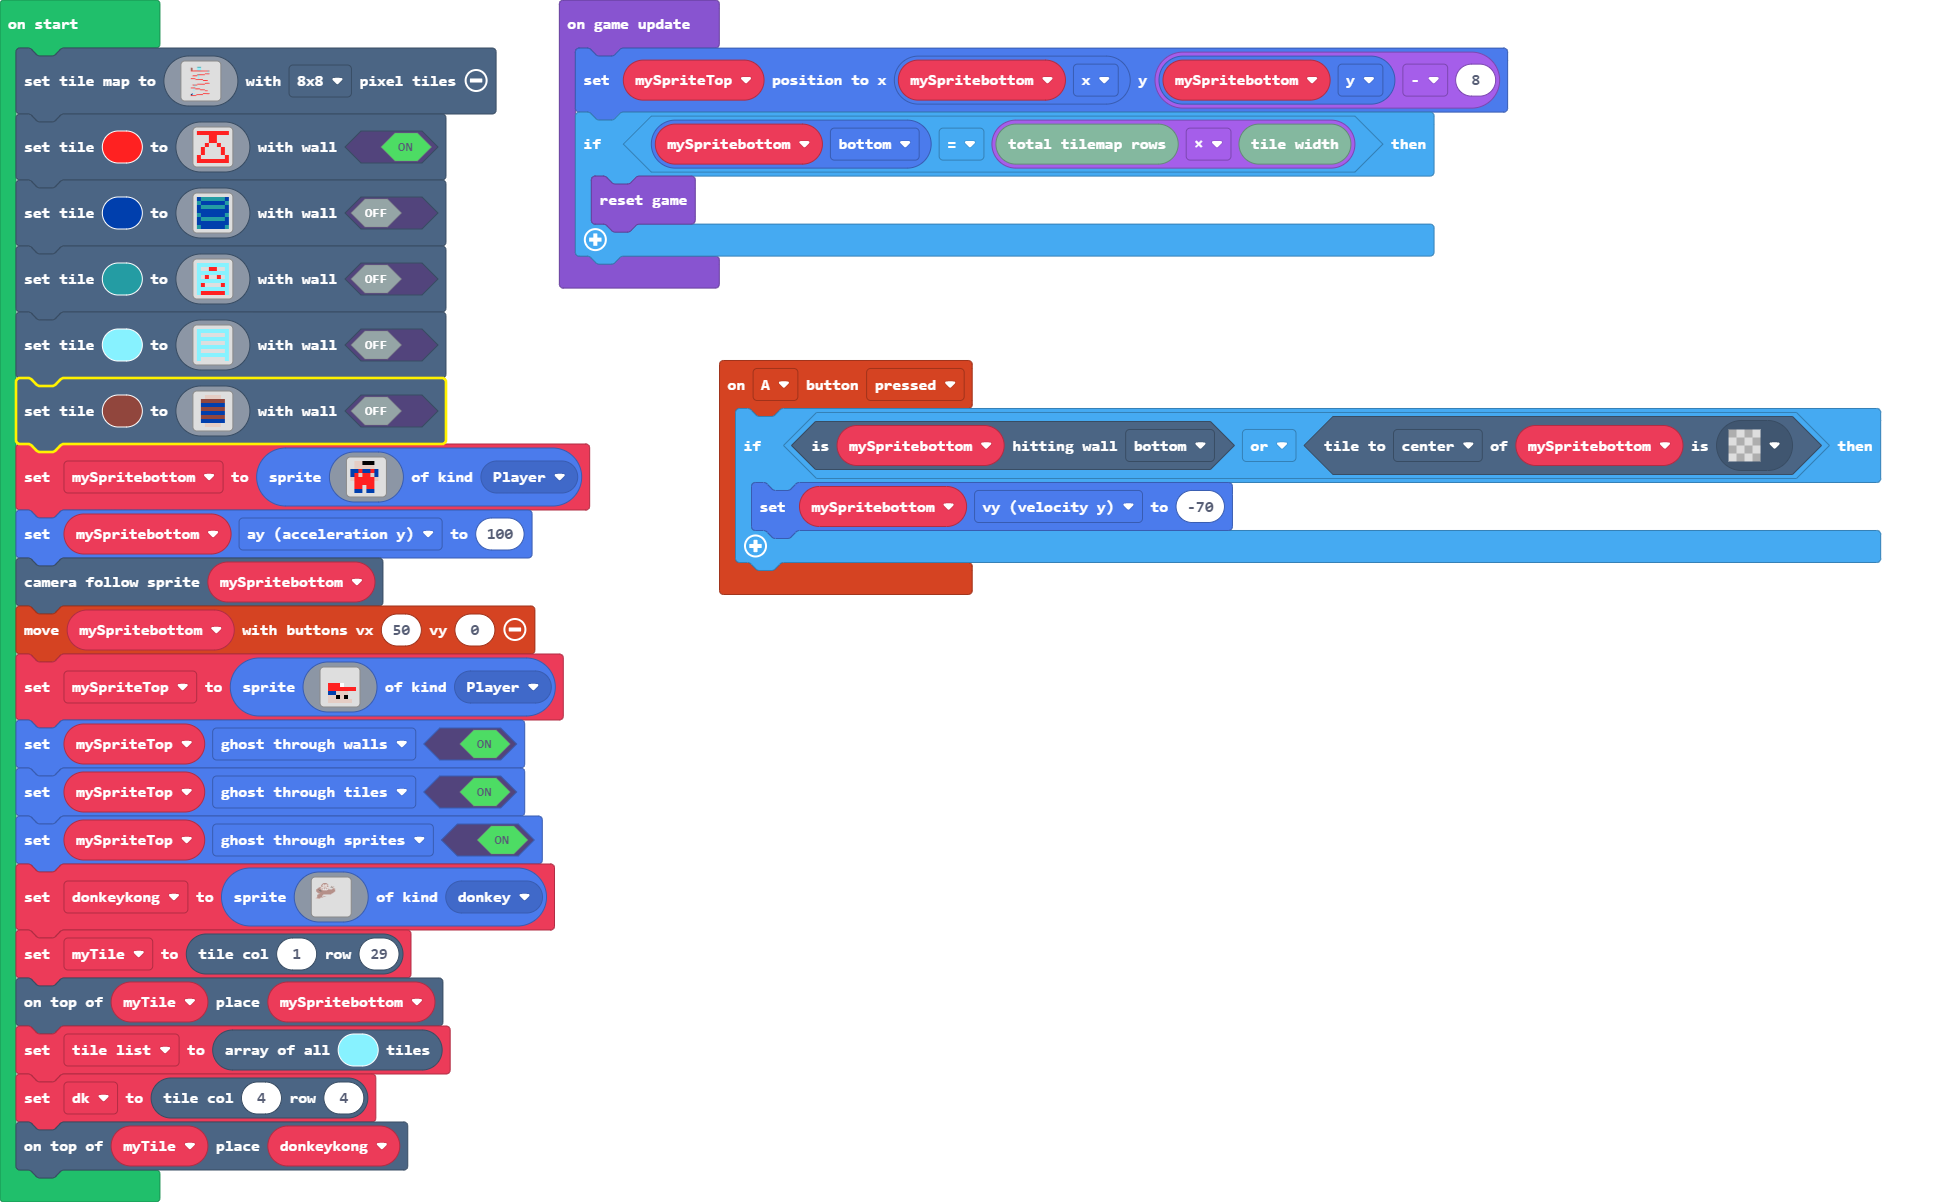
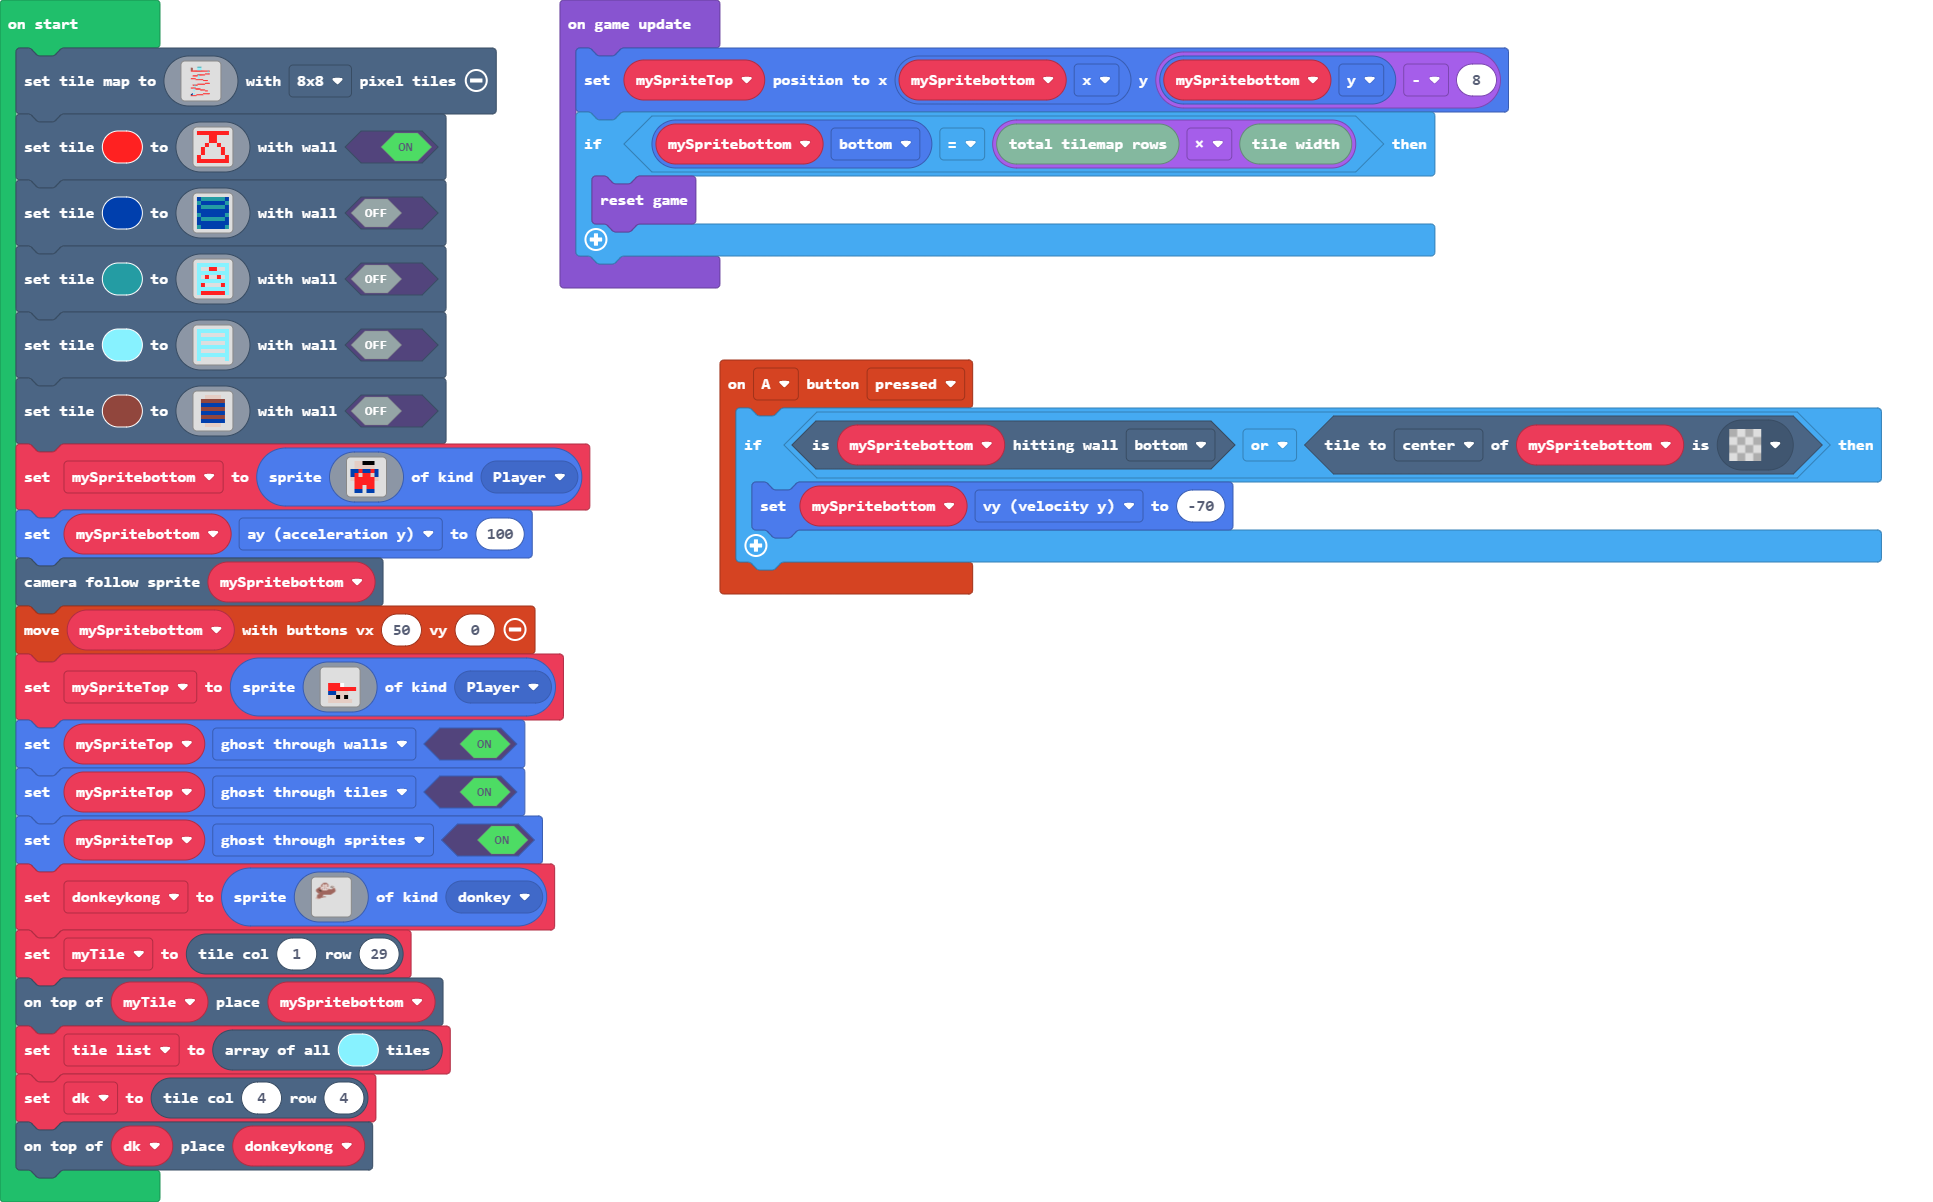
Update main.blocks, main.ts, images.g.jres, images.g.ts

diff --git a/images.g.ts b/images.g.ts
@@ -3,66 +3,6 @@ namespace myImages {
 
     helpers._registerFactory("image", function(name: string) {
         switch(helpers.stringTrim(name)) {
-            case "image2":return img`
-2 2 2 2 2 2 2 2 
-. . . 2 2 . . . 
-. . . 2 2 . . . 
-. . 2 . . 2 . . 
-. 2 . . . . 2 . 
-. 2 . . . . 2 . 
-2 . . . . . . 2 
-2 2 2 2 2 2 2 2 
-`;
-            case "image3":return img`
-9 9 9 9 9 9 9 9 
-9 . . . . . . 9 
-9 9 9 9 9 9 9 9 
-9 . . . . . . 9 
-9 9 9 9 9 9 9 9 
-9 . . . . . . 9 
-9 9 9 9 9 9 9 9 
-9 . . . . . . 9 
-`;
-            case "image7":return img`
-9 9 9 9 9 9 9 9 
-9 . . 2 2 . . 9 
-9 9 9 9 9 9 9 9 
-9 . 2 . . 2 . 9 
-9 9 9 9 9 9 9 9 
-9 2 . . . . 2 9 
-9 9 9 9 9 9 9 9 
-9 2 2 2 2 2 2 9 
-`;
-            case "image5":return img`
-. d d f f f . . 
-. d d d d d . . 
-8 8 2 8 8 2 8 . 
-8 2 d 2 2 d 8 . 
-d 2 2 2 2 2 d . 
-. 2 2 2 2 2 . . 
-. 2 2 . 2 2 . . 
-. 8 8 . 8 8 . . 
-`;
-            case "image6":return img`
-. . . . . . . . 
-. . . . . . . . 
-. . . . . . . . 
-. 2 2 2 1 . . . 
-. 2 2 2 2 2 2 2 
-. 8 8 d d d . . 
-. d d f d f . . 
-. d d d d d d . 
-`;
-            case "image4":return img`
-8 6 6 6 6 6 6 8 
-6 8 8 8 8 8 8 6 
-8 6 6 6 6 6 6 8 
-8 8 8 8 8 8 8 8 
-6 8 8 8 8 8 8 6 
-8 6 6 6 6 6 6 8 
-8 8 8 8 8 8 8 8 
-6 8 8 8 8 8 8 6 
-`;
             case "image1":return img`
 ......................
 ......................
@@ -99,7 +39,77 @@ d 2 2 2 2 2 d .
 .222222...............
 ......................
 `;
+            case "image2":return img`
+2 2 2 2 2 2 2 2 
+. . . 2 2 . . . 
+. . . 2 2 . . . 
+. . 2 . . 2 . . 
+. 2 . . . . 2 . 
+. 2 . . . . 2 . 
+2 . . . . . . 2 
+2 2 2 2 2 2 2 2 
+`;
+            case "image3":return img`
+8 6 6 6 6 6 6 8 
+6 8 8 8 8 8 8 6 
+8 6 6 6 6 6 6 8 
+8 8 8 8 8 8 8 8 
+6 8 8 8 8 8 8 6 
+8 6 6 6 6 6 6 8 
+8 8 8 8 8 8 8 8 
+6 8 8 8 8 8 8 6 
+`;
+            case "image4":return img`
+9 9 9 9 9 9 9 9 
+9 . . 2 2 . . 9 
+9 9 9 9 9 9 9 9 
+9 . 2 . . 2 . 9 
+9 9 9 9 9 9 9 9 
+9 2 . . . . 2 9 
+9 9 9 9 9 9 9 9 
+9 2 2 2 2 2 2 9 
+`;
+            case "image5":return img`
+9 9 9 9 9 9 9 9 
+9 . . . . . . 9 
+9 9 9 9 9 9 9 9 
+9 . . . . . . 9 
+9 9 9 9 9 9 9 9 
+9 . . . . . . 9 
+9 9 9 9 9 9 9 9 
+9 . . . . . . 9 
+`;
+            case "image6":return img`
+. . d d d d . . 
+. e e e e e e . 
+. 8 8 8 8 8 8 . 
+. e e e e e e . 
+. 8 8 8 8 8 8 . 
+. e e e e e e . 
+. 8 8 8 8 8 8 . 
+. . d d d d . . 
+`;
+            case "image7":return img`
+. d d f f f . . 
+. d d d d d . . 
+8 8 2 8 8 2 8 . 
+8 2 d 2 2 d 8 . 
+d 2 2 2 2 2 d . 
+. 2 2 2 2 2 . . 
+. 2 2 . 2 2 . . 
+. 8 8 . 8 8 . . 
+`;
             case "image8":return img`
+. . . . . . . . 
+. . . . . . . . 
+. . . . . . . . 
+. 2 2 2 1 . . . 
+. 2 2 2 2 2 2 2 
+. 8 8 d d d . . 
+. d d f d f . . 
+. d d d d d d . 
+`;
+            case "image9":return img`
 ................................................................
 ................................................................
 ................................................................
@@ -165,7 +175,83 @@ dddddedddd......................................................
 ................................................................
 ................................................................
 `;
-            case "image9":return img`
+            case "image10":return img`
+......................
+......................
+........6666..........
+.ee.....9999..........
+.ee.....9999..........
+.ee.....9999..........
+.22222222222222222262.
+...................9..
+...................9..
+................22222.
+........26222222......
+...22222.9............
+.........9............
+.........9............
+.22222...9............
+......22222222........
+..............22222...
+......................
+......................
+................22222.
+........22222222......
+...22622..............
+.....9................
+.....9................
+.22222................
+....9.22222...........
+....9......22222......
+....9...........222...
+......................
+......................
+..8.9.........2222222.
+.f8.9..2222222........
+.222222...............
+......................
+`;
+            case "image11":return img`
+2 2 2 2 2 2 2 2 
+. . . 2 2 . . . 
+. . . 2 2 . . . 
+. . 2 . . 2 . . 
+. 2 . . . . 2 . 
+. 2 . . . . 2 . 
+2 . . . . . . 2 
+2 2 2 2 2 2 2 2 
+`;
+            case "image12":return img`
+8 6 6 6 6 6 6 8 
+6 8 8 8 8 8 8 6 
+8 6 6 6 6 6 6 8 
+8 8 8 8 8 8 8 8 
+6 8 8 8 8 8 8 6 
+8 6 6 6 6 6 6 8 
+8 8 8 8 8 8 8 8 
+6 8 8 8 8 8 8 6 
+`;
+            case "image13":return img`
+9 9 9 9 9 9 9 9 
+9 . . 2 2 . . 9 
+9 9 9 9 9 9 9 9 
+9 . 2 . . 2 . 9 
+9 9 9 9 9 9 9 9 
+9 2 . . . . 2 9 
+9 9 9 9 9 9 9 9 
+9 2 2 2 2 2 2 9 
+`;
+            case "image14":return img`
+9 9 9 9 9 9 9 9 
+9 . . . . . . 9 
+9 9 9 9 9 9 9 9 
+9 . . . . . . 9 
+9 9 9 9 9 9 9 9 
+9 . . . . . . 9 
+9 9 9 9 9 9 9 9 
+9 . . . . . . 9 
+`;
+            case "image15":return img`
 . . d d d d . . 
 . e e e e e e . 
 . 8 8 8 8 8 8 . 
@@ -174,6 +260,92 @@ dddddedddd......................................................
 . e e e e e e . 
 . 8 8 8 8 8 8 . 
 . . d d d d . . 
+`;
+            case "image16":return img`
+. d d f f f . . 
+. d d d d d . . 
+8 8 2 8 8 2 8 . 
+8 2 d 2 2 d 8 . 
+d 2 2 2 2 2 d . 
+. 2 2 2 2 2 . . 
+. 2 2 . 2 2 . . 
+. 8 8 . 8 8 . . 
+`;
+            case "image17":return img`
+. . . . . . . . 
+. . . . . . . . 
+. . . . . . . . 
+. 2 2 2 1 . . . 
+. 2 2 2 2 2 2 2 
+. 8 8 d d d . . 
+. d d f d f . . 
+. d d d d d d . 
+`;
+            case "image18":return img`
+................................................................
+................................................................
+................................................................
+................................................................
+................eeeeeee.........................................
+...............eeeeeeeee........................................
+..............eeddeeeddee.......................................
+.............eeedddeddddee......................................
+............eeeddddeddddde......................................
+...........deeddd11d11ddde......ddd.............................
+..........ddeeedd1ede1ddeedd...ddfddd...........................
+..........dddeedddddddddeedd..ddfdddfd..........................
+.........eeeddddddeeedddddd....fffdfdd..........................
+.......eeeedd11ddddddddd11dd...dddfddd..........................
+......eeeeed111e111e111e111d....ddddede.........................
+....eeeeeeedde1ee1eee1eee1ed.......eeee.........................
+...eeeeeeeeedd1e111e111e11de......eeeee.........................
+..eeeeefeeeeeddd111d111dddeeeeeeeeeeeeee........................
+..eeeeeeffeeeeedddddddddeeeeeeeeeeeeeeee........................
+..eeeeeeefffeeeeeeeeeeeeeeeeeeeeeeeeeeee........................
+..eeeeeeeefffeeeeeeeeeeeeeeeeeeeeeeeeeee........................
+...eeeeeeeeeeeeeeeeeeeeeeeeeeeeeeeeeeee.........................
+....eeeeeeeeeeeeeeeeeeeeeeeeeeeeeeeeee..........................
+.....eeeeeeeeeeeeeeeeeeeeeeeeeeeeeee............................
+......eeeeeeeeeeeeeeeeeeeeeeeeeeeee.............................
+.........eeeeeeeeeeeeeeeeeeeeeeee...............................
+.......eeeeeeeeeeeeeeeeeeeeeeeee................................
+.....eeeeeeeeeee................................................
+....eeeeeeeeeee.................................................
+....eeeeeeeeeee.................................................
+....eeeeeeeeeee.................................................
+....eeeeeeeeee..eeeee...........................................
+...eeeeeeeeeeeee................................................
+.dddeeeeeee.....................................................
+ddedddeeee......................................................
+dddddedddd......................................................
+................................................................
+................................................................
+................................................................
+................................................................
+................................................................
+................................................................
+................................................................
+................................................................
+................................................................
+................................................................
+................................................................
+................................................................
+................................................................
+................................................................
+................................................................
+................................................................
+................................................................
+................................................................
+................................................................
+................................................................
+................................................................
+................................................................
+................................................................
+................................................................
+................................................................
+................................................................
+................................................................
+................................................................
 `;
         }
         return null;

diff --git a/main.ts b/main.ts
@@ -189,7 +189,7 @@ let myTile = scene.getTile(1, 29)
 scene.place(myTile, mySpritebottom)
 let tile_list = scene.getTilesByType(9)
 let dk = scene.getTile(4, 4)
-scene.place(myTile, donkeykong)
+scene.place(dk, donkeykong)
 game.onUpdate(function () {
     mySpriteTop.setPosition(mySpritebottom.x, mySpritebottom.y - 8)
     if (mySpritebottom.bottom == tiles.tilemapRows() * tiles.tileWidth()) {
